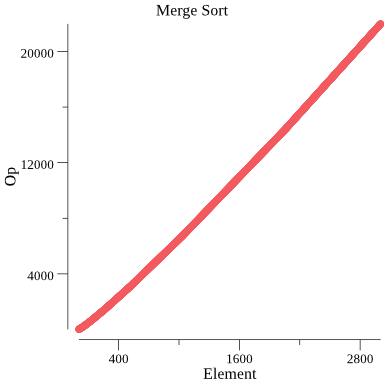
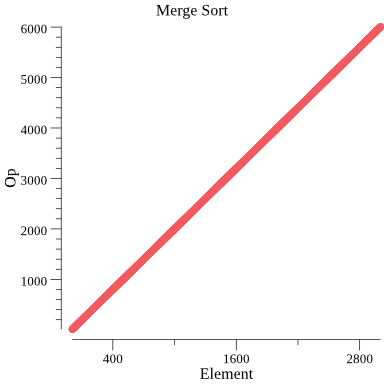
Replaced algo running in main with a runner.

diff --git a/quadratic_sort/main.go b/quadratic_sort/main.go
@@ -1,30 +1,7 @@
 package main
 
-import (
-	"github.com/Skarlso/go-algo-charts/algoplotter"
-	"gonum.org/v1/plot/plotter"
-)
+import "github.com/Skarlso/go-algo-charts/runner"
 
 func main() {
-	plotX := []float64{}
-	plotY := []float64{}
-	a := []int{4, 3, 2, 1}
-
-	for i := 0; i < 1000; i++ {
-		op = 0
-		a = append(a, i)
-		for i, j := 0, len(a)-1; i < j; i, j = i+1, j-1 {
-			a[i], a[j] = a[j], a[i]
-		}
-		elements := len(a)
-		quadraticSort(a)
-		plotX = append(plotX, float64(elements))
-		plotY = append(plotY, float64(op))
-	}
-	pts := make(plotter.XYs, len(plotX))
-	for i := range pts {
-		pts[i].X = plotX[i]
-		pts[i].Y = plotY[i]
-	}
-	algoplotter.PlotChart(pts, "Quadractic Sort", "quadratic_sort")
+	runner.Run(qSort, "quadratic_sort", "Quadratic Sort")
 }

diff --git a/quicksort/main.go b/quicksort/main.go
@@ -1,30 +1,7 @@
 package main
 
-import (
-	"github.com/Skarlso/go-algo-charts/algoplotter"
-	"gonum.org/v1/plot/plotter"
-)
+import "github.com/Skarlso/go-algo-charts/runner"
 
 func main() {
-	plotX := []float64{}
-	plotY := []float64{}
-	a := []int{4, 3, 2, 1}
-
-	for i := 0; i < 3000; i++ {
-		op = 0
-		a = append(a, i)
-		for i, j := 0, len(a)-1; i < j; i, j = i+1, j-1 {
-			a[i], a[j] = a[j], a[i]
-		}
-		elements := len(a)
-		quicksort(a, 0, elements-1)
-		plotX = append(plotX, float64(elements))
-		plotY = append(plotY, float64(op))
-	}
-	pts := make(plotter.XYs, len(plotX))
-	for i := range pts {
-		pts[i].X = plotX[i]
-		pts[i].Y = plotY[i]
-	}
-	algoplotter.PlotChart(pts, "quicksort", "Quicksort")
+	runner.Run(quick, "quicksort", "Quicksort")
 }

diff --git a/merge_sort/main.go b/merge_sort/main.go
@@ -1,30 +1,9 @@
 package main
 
 import (
-	"github.com/Skarlso/go-algo-charts/algoplotter"
-	"gonum.org/v1/plot/plotter"
+	"github.com/Skarlso/go-algo-charts/runner"
 )
 
 func main() {
-	plotX := []float64{}
-	plotY := []float64{}
-	a := []int{4, 3, 2, 1}
-
-	for i := 0; i < 3000; i++ {
-		op = 0
-		a = append(a, i)
-		for i, j := 0, len(a)-1; i < j; i, j = i+1, j-1 {
-			a[i], a[j] = a[j], a[i]
-		}
-		elements := len(a)
-		mergeSort(a, elements)
-		plotX = append(plotX, float64(elements))
-		plotY = append(plotY, float64(op))
-	}
-	pts := make(plotter.XYs, len(plotX))
-	for i := range pts {
-		pts[i].X = plotX[i]
-		pts[i].Y = plotY[i]
-	}
-	algoplotter.PlotChart(pts, "merge_sort", "Merge Sort")
+	runner.Run(mSort, "merge_sort", "Merge Sort")
 }

diff --git a/runner/run.go b/runner/run.go
@@ -1,0 +1,29 @@
+package runner
+
+import (
+	"github.com/Skarlso/go-algo-charts/algoplotter"
+	"gonum.org/v1/plot/plotter"
+)
+
+// Run a single sorting algorithm in a loop and create a plot of the result.
+func Run(f func([]int) int, filename, title string) {
+	plotX := []float64{}
+	plotY := []float64{}
+	a := []int{4, 3, 2, 1}
+	for i := 0; i < 2000; i++ {
+		a = append(a, i)
+		for i, j := 0, len(a)-1; i < j; i, j = i+1, j-1 {
+			a[i], a[j] = a[j], a[i]
+		}
+		elements := len(a)
+		op := f(a)
+		plotX = append(plotX, float64(elements))
+		plotY = append(plotY, float64(op))
+	}
+	pts := make(plotter.XYs, len(plotX))
+	for i := range pts {
+		pts[i].X = plotX[i]
+		pts[i].Y = plotY[i]
+	}
+	algoplotter.PlotChart(pts, filename, title)
+}

diff --git a/merge_sort/sort.go b/merge_sort/sort.go
@@ -6,8 +6,13 @@ import (
 
 var op int
 
+func mSort(a []int) int {
+	op = 0
+	mergeSort(a, len(a))
+	return op
+}
+
 func merge(a, b []int) []int {
-	op++
 	if len(a) == 0 {
 		return b
 	}
@@ -21,6 +26,7 @@ func merge(a, b []int) []int {
 }
 
 func mergeSort(a []int, n int) []int {
+	op++
 	if n == 1 {
 		return a
 	}

diff --git a/quicksort/sort.go b/quicksort/sort.go
@@ -2,6 +2,12 @@ package main
 
 var op int
 
+func quick(a []int) int {
+	op = 0
+	quicksort(a, 0, len(a)-1)
+	return op
+}
+
 func quicksort(a []int, begin, end int) []int {
 	op++
 	if begin < end {

diff --git a/quadratic_sort/sort.go b/quadratic_sort/sort.go
@@ -2,6 +2,12 @@ package main
 
 var op int
 
+func qSort(a []int) int {
+	op = 0
+	quadraticSort(a)
+	return op
+}
+
 func quadraticSort(a []int) []int {
 	for i := range a {
 		for j := range a {
